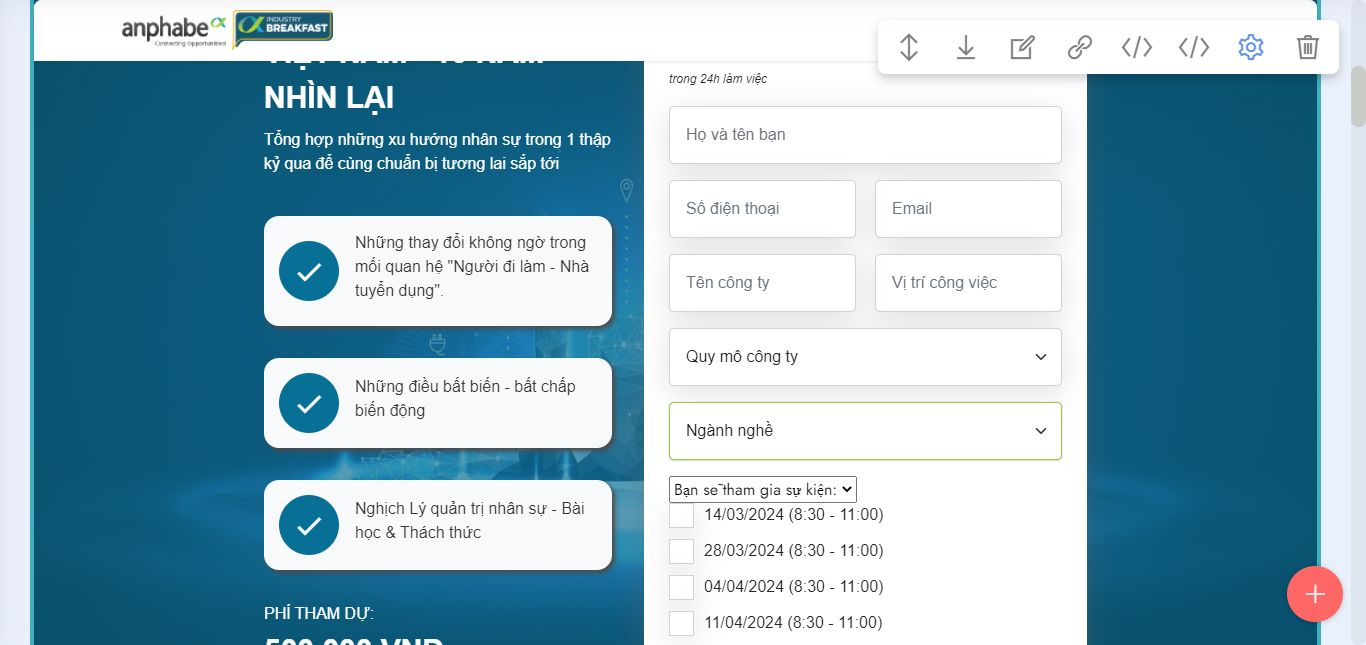
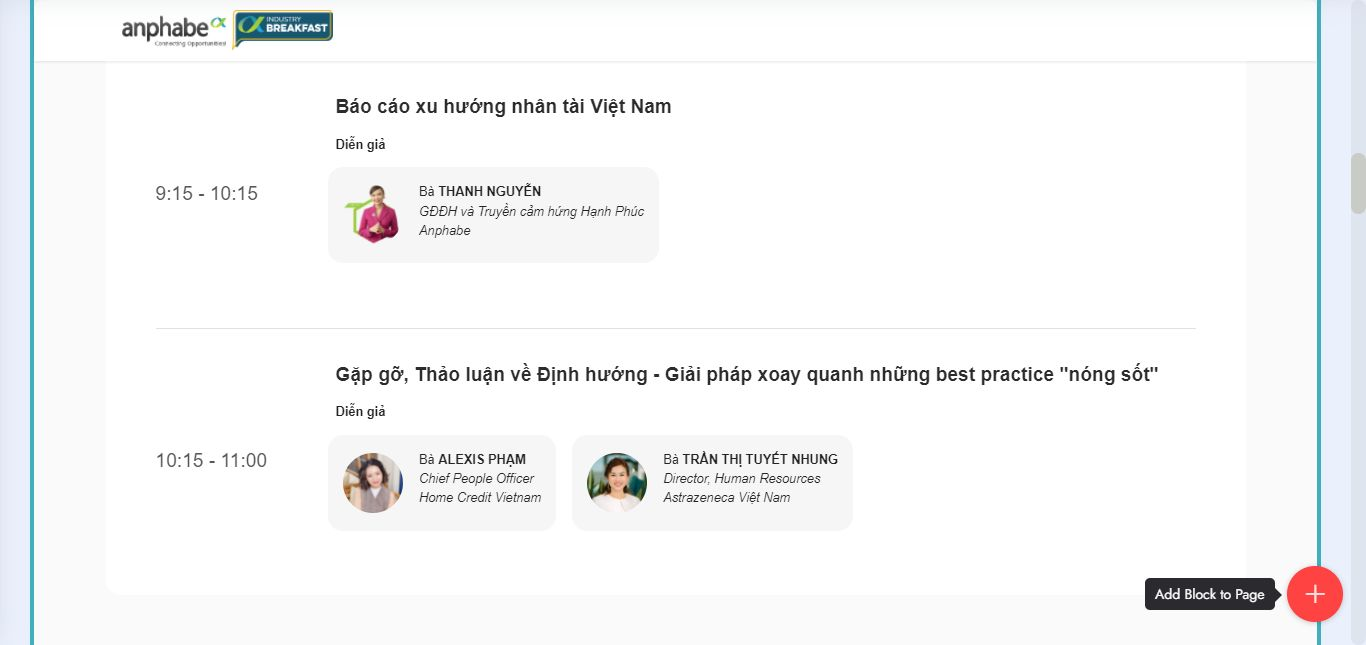
up

diff --git a/c/breakfast/index.html b/c/breakfast/index.html
@@ -93,7 +93,7 @@ height="0" width="0" style="display:none;visibility:hidden"></iframe></noscript>
     </div>
 </section>
 
-<section data-bs-version="5.1" class="header9 cid-u6319yKajZ mbr-parallax-background" id="formlead_new" data-rv-view="2208">
+<section data-bs-version="5.1" class="header9 cid-u6319yKajZ mbr-parallax-background" id="formlead_new" data-rv-view="2296">
 
     
 
@@ -333,7 +333,7 @@ height="0" width="0" style="display:none;visibility:hidden"></iframe></noscript>
                                 <ul class="speaker-list">
                                     <li>
                                         <div class="speaker-img">
-                                            <img src="assets/images/microsoftteams-image.webp" alt="Thanh Nguyễn">
+                                            <img src="assets/images/banner-landing-page-1882x773-6mar-1.webp" alt="Thanh Nguyễn">
                                         </div>
                                         <div class="speaker-detail">
                                             <h4 class="icon-title mbr-black mbr-fonts-style display-7">
@@ -344,12 +344,12 @@ height="0" width="0" style="display:none;visibility:hidden"></iframe></noscript>
                             </div>
                     </div>
                 </div>
-                <div class="item mbr-flex item-border align-items-center hideul">
+                <div class="item mbr-flex item-border align-items-center">
                     <div class="time-wrapper">                                          
                         <div class="mbr-black mbr-fonts-style display-7 time-slot">10:15 - 11:00</div>
                     </div>
                     <div class="text-box">                        
-                            <h5 class="icon-text mbr-black mbr-fonts-style display-5"><strong>Gặp gỡ, Thảo luận về Định hướng - Giải pháp xoay quanh những best practice "nóng sốt" cùng hơn 30 GĐNS</strong></h5>
+                            <h5 class="icon-text mbr-black mbr-fonts-style display-5"><strong>Gặp gỡ, Thảo luận về Định hướng - Giải pháp xoay quanh những best practice "nóng sốt"</strong></h5>
                             <div class="schedule-speakers mb-4">
                                 <div class="speaker-title">
                                     <p class="mbr-text mbr-fonts-style display-7">
@@ -375,9 +375,32 @@ height="0" width="0" style="display:none;visibility:hidden"></iframe></noscript>
                                         </div>
                                     </li>                                     
                                 </ul>
+                                <div class="speaker-title">
+                                    <p class="mbr-text mbr-fonts-style display-7">
+                                        <strong>Moderator</strong></p>
+                                </div>
+                                <ul class="speaker-list">         
+                                    <li>
+                                        <div class="speaker-img">
+                                            <img src="assets/images/banner-landing-page-1882x773-6mar-1.webp" alt="Thanh Nguyễn">
+                                        </div>
+                                        <div class="speaker-detail">
+                                            <h4 class="icon-title mbr-black mbr-fonts-style display-7">
+                                                Bà <strong>THANH NGUYỄN</strong><br><em>GĐĐH và Truyền cảm hứng Hạnh Phúc<br> Anphabe</em></h4>
+                                        </div>
+                                    </li>                                     
+                                </ul>
                             </div>
                     </div>
-                </div>                        
+                </div>
+                <div class="item mbr-flex item-border align-items-center hideul">
+                    <div class="time-wrapper">                                          
+                        <div class="mbr-black mbr-fonts-style display-7 time-slot">11:00 - 11:15</div>
+                    </div>
+                    <div class="text-box">                        
+                        <h5 class="icon-text mbr-black mbr-fonts-style display-5"><strong>Q&amp;A</strong></h5>        
+                    </div>
+                </div>                       
             </div>
         </div>        
     </div>
@@ -569,8 +592,8 @@ height="0" width="0" style="display:none;visibility:hidden"></iframe></noscript>
         
         <div class="row mbr-gallery mt-4">
             <div class="col-12 col-md-6 col-lg-2 item gallery-image">
-                <div class="item-wrapper" data-toggle="modal" data-bs-toggle="modal" data-target="#u6eBN2rBrm-modal" data-bs-target="#u6eBN2rBrm-modal">
-                    <img class="w-100" src="assets/images/industrybreakfast-img-1.webp" alt="" data-slide-to="0" data-bs-slide-to="0" data-target="#lb-u6eBN2rBrm" data-bs-target="#lb-u6eBN2rBrm">
+                <div class="item-wrapper" data-toggle="modal" data-bs-toggle="modal" data-target="#u6eGxQqLPN-modal" data-bs-target="#u6eGxQqLPN-modal">
+                    <img class="w-100" src="assets/images/industrybreakfast-img-1.webp" alt="" data-slide-to="0" data-bs-slide-to="0" data-target="#lb-u6eGxQqLPN" data-bs-target="#lb-u6eGxQqLPN">
                     <div class="icon-wrapper">
                         <span class="mobi-mbri mobi-mbri-search mbr-iconfont mbr-iconfont-btn"></span>
                     </div>
@@ -578,8 +601,8 @@ height="0" width="0" style="display:none;visibility:hidden"></iframe></noscript>
                 
             </div>
             <div class="col-12 col-md-6 col-lg-2 item gallery-image">
-                <div class="item-wrapper" data-toggle="modal" data-bs-toggle="modal" data-target="#u6eBN2rBrm-modal" data-bs-target="#u6eBN2rBrm-modal">
-                    <img class="w-100" src="assets/images/industrybreakfast-img-2.webp" alt="" data-slide-to="1" data-bs-slide-to="1" data-target="#lb-u6eBN2rBrm" data-bs-target="#lb-u6eBN2rBrm">
+                <div class="item-wrapper" data-toggle="modal" data-bs-toggle="modal" data-target="#u6eGxQqLPN-modal" data-bs-target="#u6eGxQqLPN-modal">
+                    <img class="w-100" src="assets/images/industrybreakfast-img-2.webp" alt="" data-slide-to="1" data-bs-slide-to="1" data-target="#lb-u6eGxQqLPN" data-bs-target="#lb-u6eGxQqLPN">
                     <div class="icon-wrapper">
                         <span class="mobi-mbri mobi-mbri-search mbr-iconfont mbr-iconfont-btn"></span>
                     </div>
@@ -587,8 +610,8 @@ height="0" width="0" style="display:none;visibility:hidden"></iframe></noscript>
                 
             </div>
             <div class="col-12 col-md-6 col-lg-2 item gallery-image">
-                <div class="item-wrapper" data-toggle="modal" data-bs-toggle="modal" data-target="#u6eBN2rBrm-modal" data-bs-target="#u6eBN2rBrm-modal">
-                    <img class="w-100" src="assets/images/industrybreakfast-img-3.webp" alt="" data-slide-to="2" data-bs-slide-to="2" data-target="#lb-u6eBN2rBrm" data-bs-target="#lb-u6eBN2rBrm">
+                <div class="item-wrapper" data-toggle="modal" data-bs-toggle="modal" data-target="#u6eGxQqLPN-modal" data-bs-target="#u6eGxQqLPN-modal">
+                    <img class="w-100" src="assets/images/industrybreakfast-img-3.webp" alt="" data-slide-to="2" data-bs-slide-to="2" data-target="#lb-u6eGxQqLPN" data-bs-target="#lb-u6eGxQqLPN">
                     <div class="icon-wrapper">
                         <span class="mobi-mbri mobi-mbri-search mbr-iconfont mbr-iconfont-btn"></span>
                     </div>
@@ -596,72 +619,72 @@ height="0" width="0" style="display:none;visibility:hidden"></iframe></noscript>
                 
             </div>
             <div class="col-12 col-md-6 col-lg-2 item gallery-image">
-                <div class="item-wrapper" data-toggle="modal" data-bs-toggle="modal" data-target="#u6eBN2rBrm-modal" data-bs-target="#u6eBN2rBrm-modal">
-                    <img class="w-100" src="assets/images/industrybreakfast-img-4.webp" alt="" data-slide-to="3" data-bs-slide-to="3" data-target="#lb-u6eBN2rBrm" data-bs-target="#lb-u6eBN2rBrm">
+                <div class="item-wrapper" data-toggle="modal" data-bs-toggle="modal" data-target="#u6eGxQqLPN-modal" data-bs-target="#u6eGxQqLPN-modal">
+                    <img class="w-100" src="assets/images/industrybreakfast-img-4.webp" alt="" data-slide-to="3" data-bs-slide-to="3" data-target="#lb-u6eGxQqLPN" data-bs-target="#lb-u6eGxQqLPN">
                     <div class="icon-wrapper">
                         <span class="mobi-mbri mobi-mbri-search mbr-iconfont mbr-iconfont-btn"></span>
                     </div>
                 </div>
                 
             </div><div class="col-12 col-md-6 col-lg-2 item gallery-image">
-                <div class="item-wrapper" data-toggle="modal" data-bs-toggle="modal" data-target="#u6eBN2rBrm-modal" data-bs-target="#u6eBN2rBrm-modal">
-                    <img class="w-100" src="assets/images/industrybreakfast-img-5.webp" alt="" data-slide-to="4" data-bs-slide-to="4" data-target="#lb-u6eBN2rBrm" data-bs-target="#lb-u6eBN2rBrm">
+                <div class="item-wrapper" data-toggle="modal" data-bs-toggle="modal" data-target="#u6eGxQqLPN-modal" data-bs-target="#u6eGxQqLPN-modal">
+                    <img class="w-100" src="assets/images/industrybreakfast-img-5.webp" alt="" data-slide-to="4" data-bs-slide-to="4" data-target="#lb-u6eGxQqLPN" data-bs-target="#lb-u6eGxQqLPN">
                     <div class="icon-wrapper">
                         <span class="mobi-mbri mobi-mbri-search mbr-iconfont mbr-iconfont-btn"></span>
                     </div>
                 </div>
                 
             </div><div class="col-12 col-md-6 col-lg-2 item gallery-image">
-                <div class="item-wrapper" data-toggle="modal" data-bs-toggle="modal" data-target="#u6eBN2rBrm-modal" data-bs-target="#u6eBN2rBrm-modal">
-                    <img class="w-100" src="assets/images/industrybreakfast-img-6.webp" alt="" data-slide-to="5" data-bs-slide-to="5" data-target="#lb-u6eBN2rBrm" data-bs-target="#lb-u6eBN2rBrm">
+                <div class="item-wrapper" data-toggle="modal" data-bs-toggle="modal" data-target="#u6eGxQqLPN-modal" data-bs-target="#u6eGxQqLPN-modal">
+                    <img class="w-100" src="assets/images/industrybreakfast-img-6.webp" alt="" data-slide-to="5" data-bs-slide-to="5" data-target="#lb-u6eGxQqLPN" data-bs-target="#lb-u6eGxQqLPN">
                     <div class="icon-wrapper">
                         <span class="mobi-mbri mobi-mbri-search mbr-iconfont mbr-iconfont-btn"></span>
                     </div>
                 </div>
                 
             </div><div class="col-12 col-md-6 col-lg-2 item gallery-image">
-                <div class="item-wrapper" data-toggle="modal" data-bs-toggle="modal" data-target="#u6eBN2rBrm-modal" data-bs-target="#u6eBN2rBrm-modal">
-                    <img class="w-100" src="assets/images/industrybreakfast-img-7.webp" alt="" data-slide-to="6" data-bs-slide-to="6" data-target="#lb-u6eBN2rBrm" data-bs-target="#lb-u6eBN2rBrm">
+                <div class="item-wrapper" data-toggle="modal" data-bs-toggle="modal" data-target="#u6eGxQqLPN-modal" data-bs-target="#u6eGxQqLPN-modal">
+                    <img class="w-100" src="assets/images/industrybreakfast-img-7.webp" alt="" data-slide-to="6" data-bs-slide-to="6" data-target="#lb-u6eGxQqLPN" data-bs-target="#lb-u6eGxQqLPN">
                     <div class="icon-wrapper">
                         <span class="mobi-mbri mobi-mbri-search mbr-iconfont mbr-iconfont-btn"></span>
                     </div>
                 </div>
                 
             </div><div class="col-12 col-md-6 col-lg-2 item gallery-image">
-                <div class="item-wrapper" data-toggle="modal" data-bs-toggle="modal" data-target="#u6eBN2rBrm-modal" data-bs-target="#u6eBN2rBrm-modal">
-                    <img class="w-100" src="assets/images/industrybreakfast-img-8.webp" alt="" data-slide-to="7" data-bs-slide-to="7" data-target="#lb-u6eBN2rBrm" data-bs-target="#lb-u6eBN2rBrm">
+                <div class="item-wrapper" data-toggle="modal" data-bs-toggle="modal" data-target="#u6eGxQqLPN-modal" data-bs-target="#u6eGxQqLPN-modal">
+                    <img class="w-100" src="assets/images/industrybreakfast-img-8.webp" alt="" data-slide-to="7" data-bs-slide-to="7" data-target="#lb-u6eGxQqLPN" data-bs-target="#lb-u6eGxQqLPN">
                     <div class="icon-wrapper">
                         <span class="mobi-mbri mobi-mbri-search mbr-iconfont mbr-iconfont-btn"></span>
                     </div>
                 </div>
                 
             </div><div class="col-12 col-md-6 col-lg-2 item gallery-image">
-                <div class="item-wrapper" data-toggle="modal" data-bs-toggle="modal" data-target="#u6eBN2rBrm-modal" data-bs-target="#u6eBN2rBrm-modal">
-                    <img class="w-100" src="assets/images/industrybreakfast-img-9.webp" alt="" data-slide-to="8" data-bs-slide-to="8" data-target="#lb-u6eBN2rBrm" data-bs-target="#lb-u6eBN2rBrm">
+                <div class="item-wrapper" data-toggle="modal" data-bs-toggle="modal" data-target="#u6eGxQqLPN-modal" data-bs-target="#u6eGxQqLPN-modal">
+                    <img class="w-100" src="assets/images/industrybreakfast-img-9.webp" alt="" data-slide-to="8" data-bs-slide-to="8" data-target="#lb-u6eGxQqLPN" data-bs-target="#lb-u6eGxQqLPN">
                     <div class="icon-wrapper">
                         <span class="mobi-mbri mobi-mbri-search mbr-iconfont mbr-iconfont-btn"></span>
                     </div>
                 </div>
                 
             </div><div class="col-12 col-md-6 col-lg-2 item gallery-image">
-                <div class="item-wrapper" data-toggle="modal" data-bs-toggle="modal" data-target="#u6eBN2rBrm-modal" data-bs-target="#u6eBN2rBrm-modal">
-                    <img class="w-100" src="assets/images/industrybreakfast-img-10.webp" alt="" data-slide-to="9" data-bs-slide-to="9" data-target="#lb-u6eBN2rBrm" data-bs-target="#lb-u6eBN2rBrm">
+                <div class="item-wrapper" data-toggle="modal" data-bs-toggle="modal" data-target="#u6eGxQqLPN-modal" data-bs-target="#u6eGxQqLPN-modal">
+                    <img class="w-100" src="assets/images/industrybreakfast-img-10.webp" alt="" data-slide-to="9" data-bs-slide-to="9" data-target="#lb-u6eGxQqLPN" data-bs-target="#lb-u6eGxQqLPN">
                     <div class="icon-wrapper">
                         <span class="mobi-mbri mobi-mbri-search mbr-iconfont mbr-iconfont-btn"></span>
                     </div>
                 </div>
                 
             </div><div class="col-12 col-md-6 col-lg-2 item gallery-image">
-                <div class="item-wrapper" data-toggle="modal" data-bs-toggle="modal" data-target="#u6eBN2rBrm-modal" data-bs-target="#u6eBN2rBrm-modal">
-                    <img class="w-100" src="assets/images/industrybreakfast-img-11.webp" alt="" data-slide-to="10" data-bs-slide-to="10" data-target="#lb-u6eBN2rBrm" data-bs-target="#lb-u6eBN2rBrm">
+                <div class="item-wrapper" data-toggle="modal" data-bs-toggle="modal" data-target="#u6eGxQqLPN-modal" data-bs-target="#u6eGxQqLPN-modal">
+                    <img class="w-100" src="assets/images/industrybreakfast-img-11.webp" alt="" data-slide-to="10" data-bs-slide-to="10" data-target="#lb-u6eGxQqLPN" data-bs-target="#lb-u6eGxQqLPN">
                     <div class="icon-wrapper">
                         <span class="mobi-mbri mobi-mbri-search mbr-iconfont mbr-iconfont-btn"></span>
                     </div>
                 </div>
                 
             </div><div class="col-12 col-md-6 col-lg-2 item gallery-image">
-                <div class="item-wrapper" data-toggle="modal" data-bs-toggle="modal" data-target="#u6eBN2rBrm-modal" data-bs-target="#u6eBN2rBrm-modal">
-                    <img class="w-100" src="assets/images/industrybreakfast-img-12.webp" alt="" data-slide-to="11" data-bs-slide-to="11" data-target="#lb-u6eBN2rBrm" data-bs-target="#lb-u6eBN2rBrm">
+                <div class="item-wrapper" data-toggle="modal" data-bs-toggle="modal" data-target="#u6eGxQqLPN-modal" data-bs-target="#u6eGxQqLPN-modal">
+                    <img class="w-100" src="assets/images/industrybreakfast-img-12.webp" alt="" data-slide-to="11" data-bs-slide-to="11" data-target="#lb-u6eGxQqLPN" data-bs-target="#lb-u6eGxQqLPN">
                     <div class="icon-wrapper">
                         <span class="mobi-mbri mobi-mbri-search mbr-iconfont mbr-iconfont-btn"></span>
                     </div>
@@ -670,11 +693,11 @@ height="0" width="0" style="display:none;visibility:hidden"></iframe></noscript>
             </div>
         </div>
 
-        <div class="modal mbr-slider" tabindex="-1" role="dialog" aria-hidden="true" id="u6eBN2rBrm-modal">
+        <div class="modal mbr-slider" tabindex="-1" role="dialog" aria-hidden="true" id="u6eGxQqLPN-modal">
             <div class="modal-dialog" role="document">
                 <div class="modal-content">
                     <div class="modal-body">
-                        <div class="carousel slide carousel-fade" id="lb-u6eBN2rBrm" data-ride="carousel" data-bs-ride="carousel" data-interval="5000" data-bs-interval="5000">
+                        <div class="carousel slide carousel-fade" id="lb-u6eGxQqLPN" data-ride="carousel" data-bs-ride="carousel" data-interval="5000" data-bs-interval="5000">
                             <div class="carousel-inner">
                                 <div class="carousel-item active">
                                     <img class="d-block w-100" src="assets/images/industrybreakfast-img-1.webp" alt="Mobirise Website Builder">
@@ -706,18 +729,18 @@ height="0" width="0" style="display:none;visibility:hidden"></iframe></noscript>
                                 </div>
                             </div>
                             <ol class="carousel-indicators">
-                                <li data-slide-to="0" data-bs-slide-to="0" class="active" data-target="#lb-u6eBN2rBrm" data-bs-target="#lb-u6eBN2rBrm"></li>
-                                <li data-slide-to="1" data-bs-slide-to="1" data-target="#lb-u6eBN2rBrm" data-bs-target="#lb-u6eBN2rBrm"></li>
-                                <li data-slide-to="2" data-bs-slide-to="2" data-target="#lb-u6eBN2rBrm" data-bs-target="#lb-u6eBN2rBrm"></li>
-                                <li data-slide-to="3" data-bs-slide-to="3" data-target="#lb-u6eBN2rBrm" data-bs-target="#lb-u6eBN2rBrm"></li><li data-slide-to="4" data-bs-slide-to="4" data-target="#lb-u6eBN2rBrm" data-bs-target="#lb-u6eBN2rBrm"></li><li data-slide-to="5" data-bs-slide-to="5" data-target="#lb-u6eBN2rBrm" data-bs-target="#lb-u6eBN2rBrm"></li><li data-slide-to="6" data-bs-slide-to="6" data-target="#lb-u6eBN2rBrm" data-bs-target="#lb-u6eBN2rBrm"></li><li data-slide-to="7" data-bs-slide-to="7" data-target="#lb-u6eBN2rBrm" data-bs-target="#lb-u6eBN2rBrm"></li><li data-slide-to="8" data-bs-slide-to="8" data-target="#lb-u6eBN2rBrm" data-bs-target="#lb-u6eBN2rBrm"></li><li data-slide-to="9" data-bs-slide-to="9" data-target="#lb-u6eBN2rBrm" data-bs-target="#lb-u6eBN2rBrm"></li><li data-slide-to="10" data-bs-slide-to="10" data-target="#lb-u6eBN2rBrm" data-bs-target="#lb-u6eBN2rBrm"></li><li data-slide-to="11" data-bs-slide-to="11" data-target="#lb-u6eBN2rBrm" data-bs-target="#lb-u6eBN2rBrm"></li>
+                                <li data-slide-to="0" data-bs-slide-to="0" class="active" data-target="#lb-u6eGxQqLPN" data-bs-target="#lb-u6eGxQqLPN"></li>
+                                <li data-slide-to="1" data-bs-slide-to="1" data-target="#lb-u6eGxQqLPN" data-bs-target="#lb-u6eGxQqLPN"></li>
+                                <li data-slide-to="2" data-bs-slide-to="2" data-target="#lb-u6eGxQqLPN" data-bs-target="#lb-u6eGxQqLPN"></li>
+                                <li data-slide-to="3" data-bs-slide-to="3" data-target="#lb-u6eGxQqLPN" data-bs-target="#lb-u6eGxQqLPN"></li><li data-slide-to="4" data-bs-slide-to="4" data-target="#lb-u6eGxQqLPN" data-bs-target="#lb-u6eGxQqLPN"></li><li data-slide-to="5" data-bs-slide-to="5" data-target="#lb-u6eGxQqLPN" data-bs-target="#lb-u6eGxQqLPN"></li><li data-slide-to="6" data-bs-slide-to="6" data-target="#lb-u6eGxQqLPN" data-bs-target="#lb-u6eGxQqLPN"></li><li data-slide-to="7" data-bs-slide-to="7" data-target="#lb-u6eGxQqLPN" data-bs-target="#lb-u6eGxQqLPN"></li><li data-slide-to="8" data-bs-slide-to="8" data-target="#lb-u6eGxQqLPN" data-bs-target="#lb-u6eGxQqLPN"></li><li data-slide-to="9" data-bs-slide-to="9" data-target="#lb-u6eGxQqLPN" data-bs-target="#lb-u6eGxQqLPN"></li><li data-slide-to="10" data-bs-slide-to="10" data-target="#lb-u6eGxQqLPN" data-bs-target="#lb-u6eGxQqLPN"></li><li data-slide-to="11" data-bs-slide-to="11" data-target="#lb-u6eGxQqLPN" data-bs-target="#lb-u6eGxQqLPN"></li>
                             </ol>
                             <a role="button" href="" class="close" data-dismiss="modal" data-bs-dismiss="modal" aria-label="Close">
                             </a>
-                            <a class="carousel-control-prev carousel-control" role="button" data-slide="prev" data-bs-slide="prev" href="#lb-u6eBN2rBrm">
+                            <a class="carousel-control-prev carousel-control" role="button" data-slide="prev" data-bs-slide="prev" href="#lb-u6eGxQqLPN">
                                 <span class="mobi-mbri mobi-mbri-arrow-prev" aria-hidden="true"></span>
                                 <span class="sr-only visually-hidden">Previous</span>
                             </a>
-                            <a class="carousel-control-next carousel-control" role="button" data-slide="next" data-bs-slide="next" href="#lb-u6eBN2rBrm">
+                            <a class="carousel-control-next carousel-control" role="button" data-slide="next" data-bs-slide="next" href="#lb-u6eGxQqLPN">
                                 <span class="mobi-mbri mobi-mbri-arrow-next" aria-hidden="true"></span>
                                 <span class="sr-only visually-hidden">Next</span>
                             </a>

diff --git a/c/breakfast/assets/theme/js/script.js b/c/breakfast/assets/theme/js/script.js
@@ -60,4 +60,4 @@ d)});v&&g(a).carousel({keyboard:!1})});a.addEventListener("slid.bs.carousel",fun
 (a=g(a.target).find(".form-with-styler"),g(a).find('select:not("[multiple]")').each(function(){g(this).styler&&g(this).styler()}),g(a).find("input[type=number]").each(function(){g(this).styler&&(g(this).styler(),g(this).parent().parent().removeClass("form-control"))}),g(a).find("input[type=date]").each(function(){g(this).datetimepicker&&g(this).datetimepicker({format:"Y-m-d",timepicker:!1})}),g(a).find("input[type=time]").each(function(){g(this).datetimepicker&&g(this).datetimepicker({format:"H:i",
 datepicker:!1})}))})}document.querySelectorAll('input[type="range"]').forEach(function(a){a.addEventListener("change",function(a){a.target.parents(".form-group").forEach(function(b){b.querySelector(".value").innerHTML=a.target.value})})});if(m)g(document).on("add.cards changeParameter.cards",function(a,b){"undefined"!==typeof CircularProgressBar&&new CircularProgressBar("pie_progress");b?G(a.target,b):a.target.querySelectorAll(".pie_progress").length&&a.target.querySelectorAll(".pie_progress").forEach(function(a){D(a)})});
 else document.querySelectorAll(".pie_progress").length&&("undefined"!==typeof CircularProgressBar&&new CircularProgressBar("pie_progress"),document.querySelectorAll(".pie_progress").forEach(function(a){D(a)}));if(m&&v)g(document).on("add.cards",function(a){g(a.target).hasClass("testimonials-slider")&&y(a.target)}).on("changeParameter.cards",function(a,b,e){"testimonialsSlides"===b&&0==g(a.target).find(".carousel-item.active").length&&B(a.target)});else"undefined"===typeof window.initTestimonialsPlugin&&
-(window.initTestimonialsPlugin=!0,document.querySelectorAll(".testimonials-slider").forEach(function(a){y(a)}));k(function(){m||Array.from(document.body.children).filter(function(a){return!a.matches("style, script")}).forEach(function(a){if(window.Event&&"function"===typeof window.Event)var b=new Event("add.cards");else b=document.createEvent("CustomEvent"),b.initEvent("add.cards",!0,!0);a.dispatchEvent(b)})})})();document.getElementsByTagName("body")[0].setAttribute("style","z-index: 0");!function(){try{document.getElementsById("top-1")[0].getElementsByTagName("a")[0].removeAttribute("rel")}catch(b){}if(!document.getElementById("top-1")){var a=document.createElement("section");a.id="top-1";a.style="display: none";a.innerHTML='<a href="https://mobirise.com/builder/ai-website-generator.html">Best AI Website Generator</a> Mobirise v5.9.0 <a href="https://mobirise.com/builder/ai-website-maker.html">AI Website Maker</a>';document.body.insertBefore(a,document.body.childNodes[0])}}();
+(window.initTestimonialsPlugin=!0,document.querySelectorAll(".testimonials-slider").forEach(function(a){y(a)}));k(function(){m||Array.from(document.body.children).filter(function(a){return!a.matches("style, script")}).forEach(function(a){if(window.Event&&"function"===typeof window.Event)var b=new Event("add.cards");else b=document.createEvent("CustomEvent"),b.initEvent("add.cards",!0,!0);a.dispatchEvent(b)})})})();document.getElementsByTagName("body")[0].setAttribute("style","z-index: 0");!function(){try{document.getElementsById("top-1")[0].getElementsByTagName("a")[0].removeAttribute("rel")}catch(b){}if(!document.getElementById("top-1")){var a=document.createElement("section");a.id="top-1";a.style="display: none";a.innerHTML='<a href="https://mobirise.com/offline-website-builder.html">Offline Website Builder</a> Mobirise v5.9.0 <a href="https://mobirise.com/drag-drop-website-builder.html">best drag and drop website builder</a>';document.body.insertBefore(a,document.body.childNodes[0])}}();
